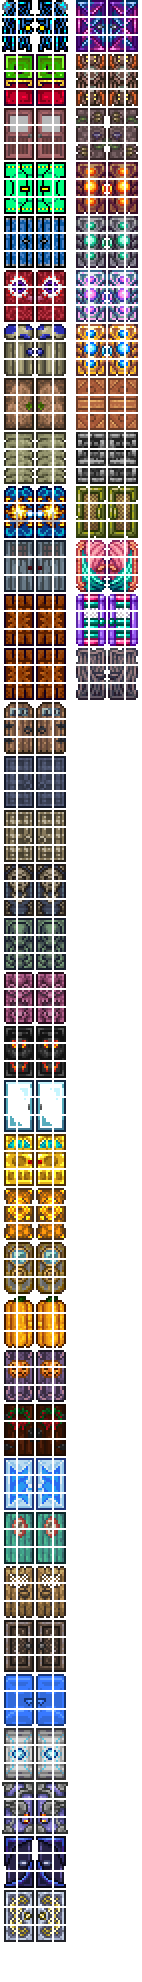
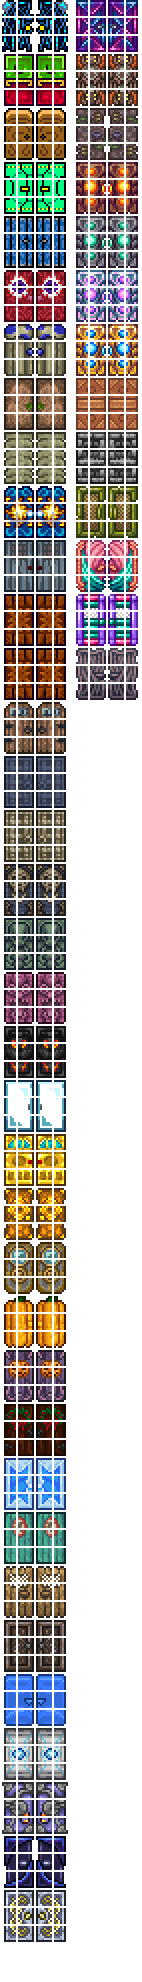
Added Rich Mahogany (block + wall + furniture)
Doing an entire furniture set at once like this is so draining, there's gotta be a better way to do this.

And I HAVE to find it because I still have 38 sets to go.

Changed region(s): [[0.0282, 0.0308, 0.4789, 0.0923]]

diff --git a/CHANGELOG.md b/CHANGELOG.md
@@ -20,12 +20,15 @@ As the name implies, this is the update that retextures the Jungle biome.
 
 ### Added
 
-- _Blocks:_ Mud, Jungle Grass (+ Corrupt and Crimson variants), Hive
-- _Walls:_ Mud, Jungle, Hive
+- _Blocks:_ Mud, Jungle Grass (+ Corrupt and Crimson variants), Hive,
+  Rich Mahogany
+- _Walls:_ Mud, Jungle, Hive, Rich Mahogany
+- _Furniture Sets:_ Rich Mahogany
 - Seeds for all currently added grasses
 - Items for all currently added banners.
   Enemies with these banners now all properly have names and bestiary entries.
 - The "Spampton NutriNose&trade;"
+- Honey.
 
 #### NPCs
 
@@ -37,6 +40,10 @@ As the name implies, this is the update that retextures the Jungle biome.
 (Equipped armor GFX will not be part of the pack for a good while)
 
 - _Sets:_ Copper, Tin, Iron, Lead, Silver, Tungsten, Gold, Platinum
+
+### Changed
+
+- Buckets are now jugs instead of capsules.
 
 ## MINOR 1.2 - _Larger Shipments_ - 2023-07-18
 

diff --git a/README.md b/README.md
@@ -46,8 +46,8 @@ Last updated: _{@p time @} UTC_
 <!--@region FileCount-->
 Last updated: _2023-08-11 UTC_
 
-- **1130** Images (**13%** of the way to the next update)
-- **3097** Text Entries
+- **1156** Images (**15%** of the way to the next update)
+- **3121** Text Entries
 - **17** Songs
 - **22** Sounds
 <!--@end-region-->
@@ -83,7 +83,8 @@ This is a fan project.
 
 [![Creative Commons License](https://i.creativecommons.org/l/by-nc-sa/4.0/88x31.png)](http://creativecommons.org/licenses/by-nc-sa/4.0/)
 
-The original images are licensed under a [Creative Commons Attribution-NonCommercial-ShareAlike 4.0 International License]
+The original images are licensed under a
+[Creative Commons Attribution-NonCommercial-ShareAlike 4.0 International License]
 
 The code in this project is under the [MIT License]
 
